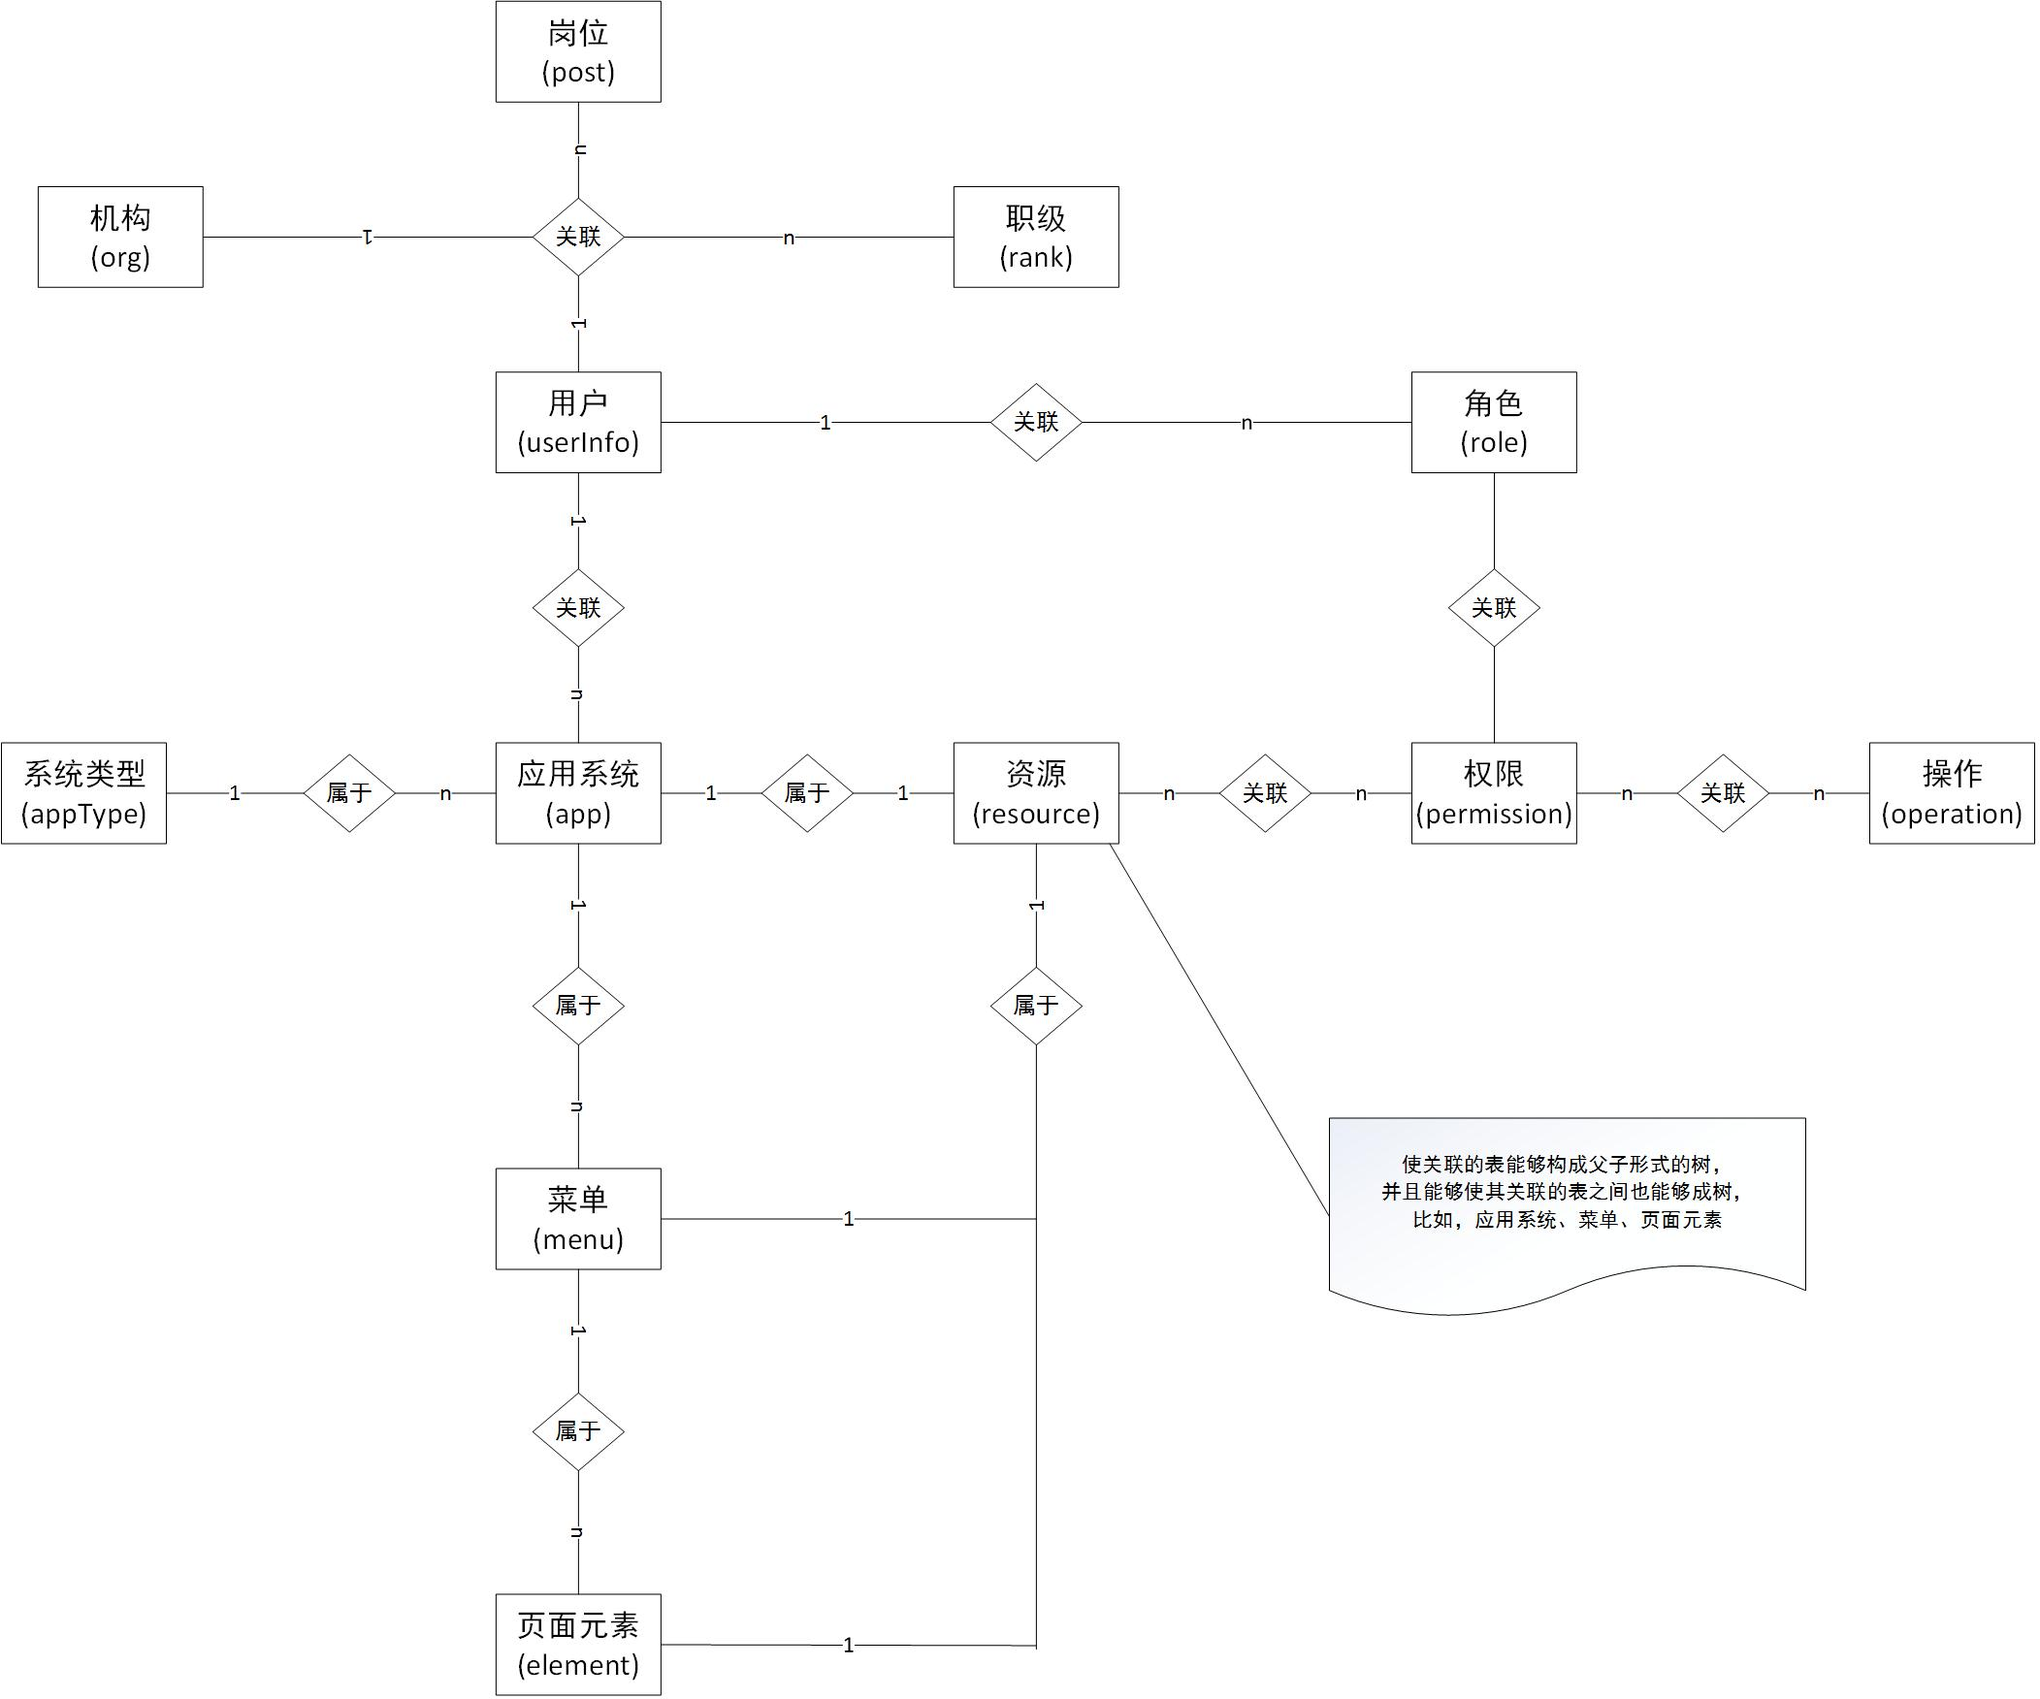
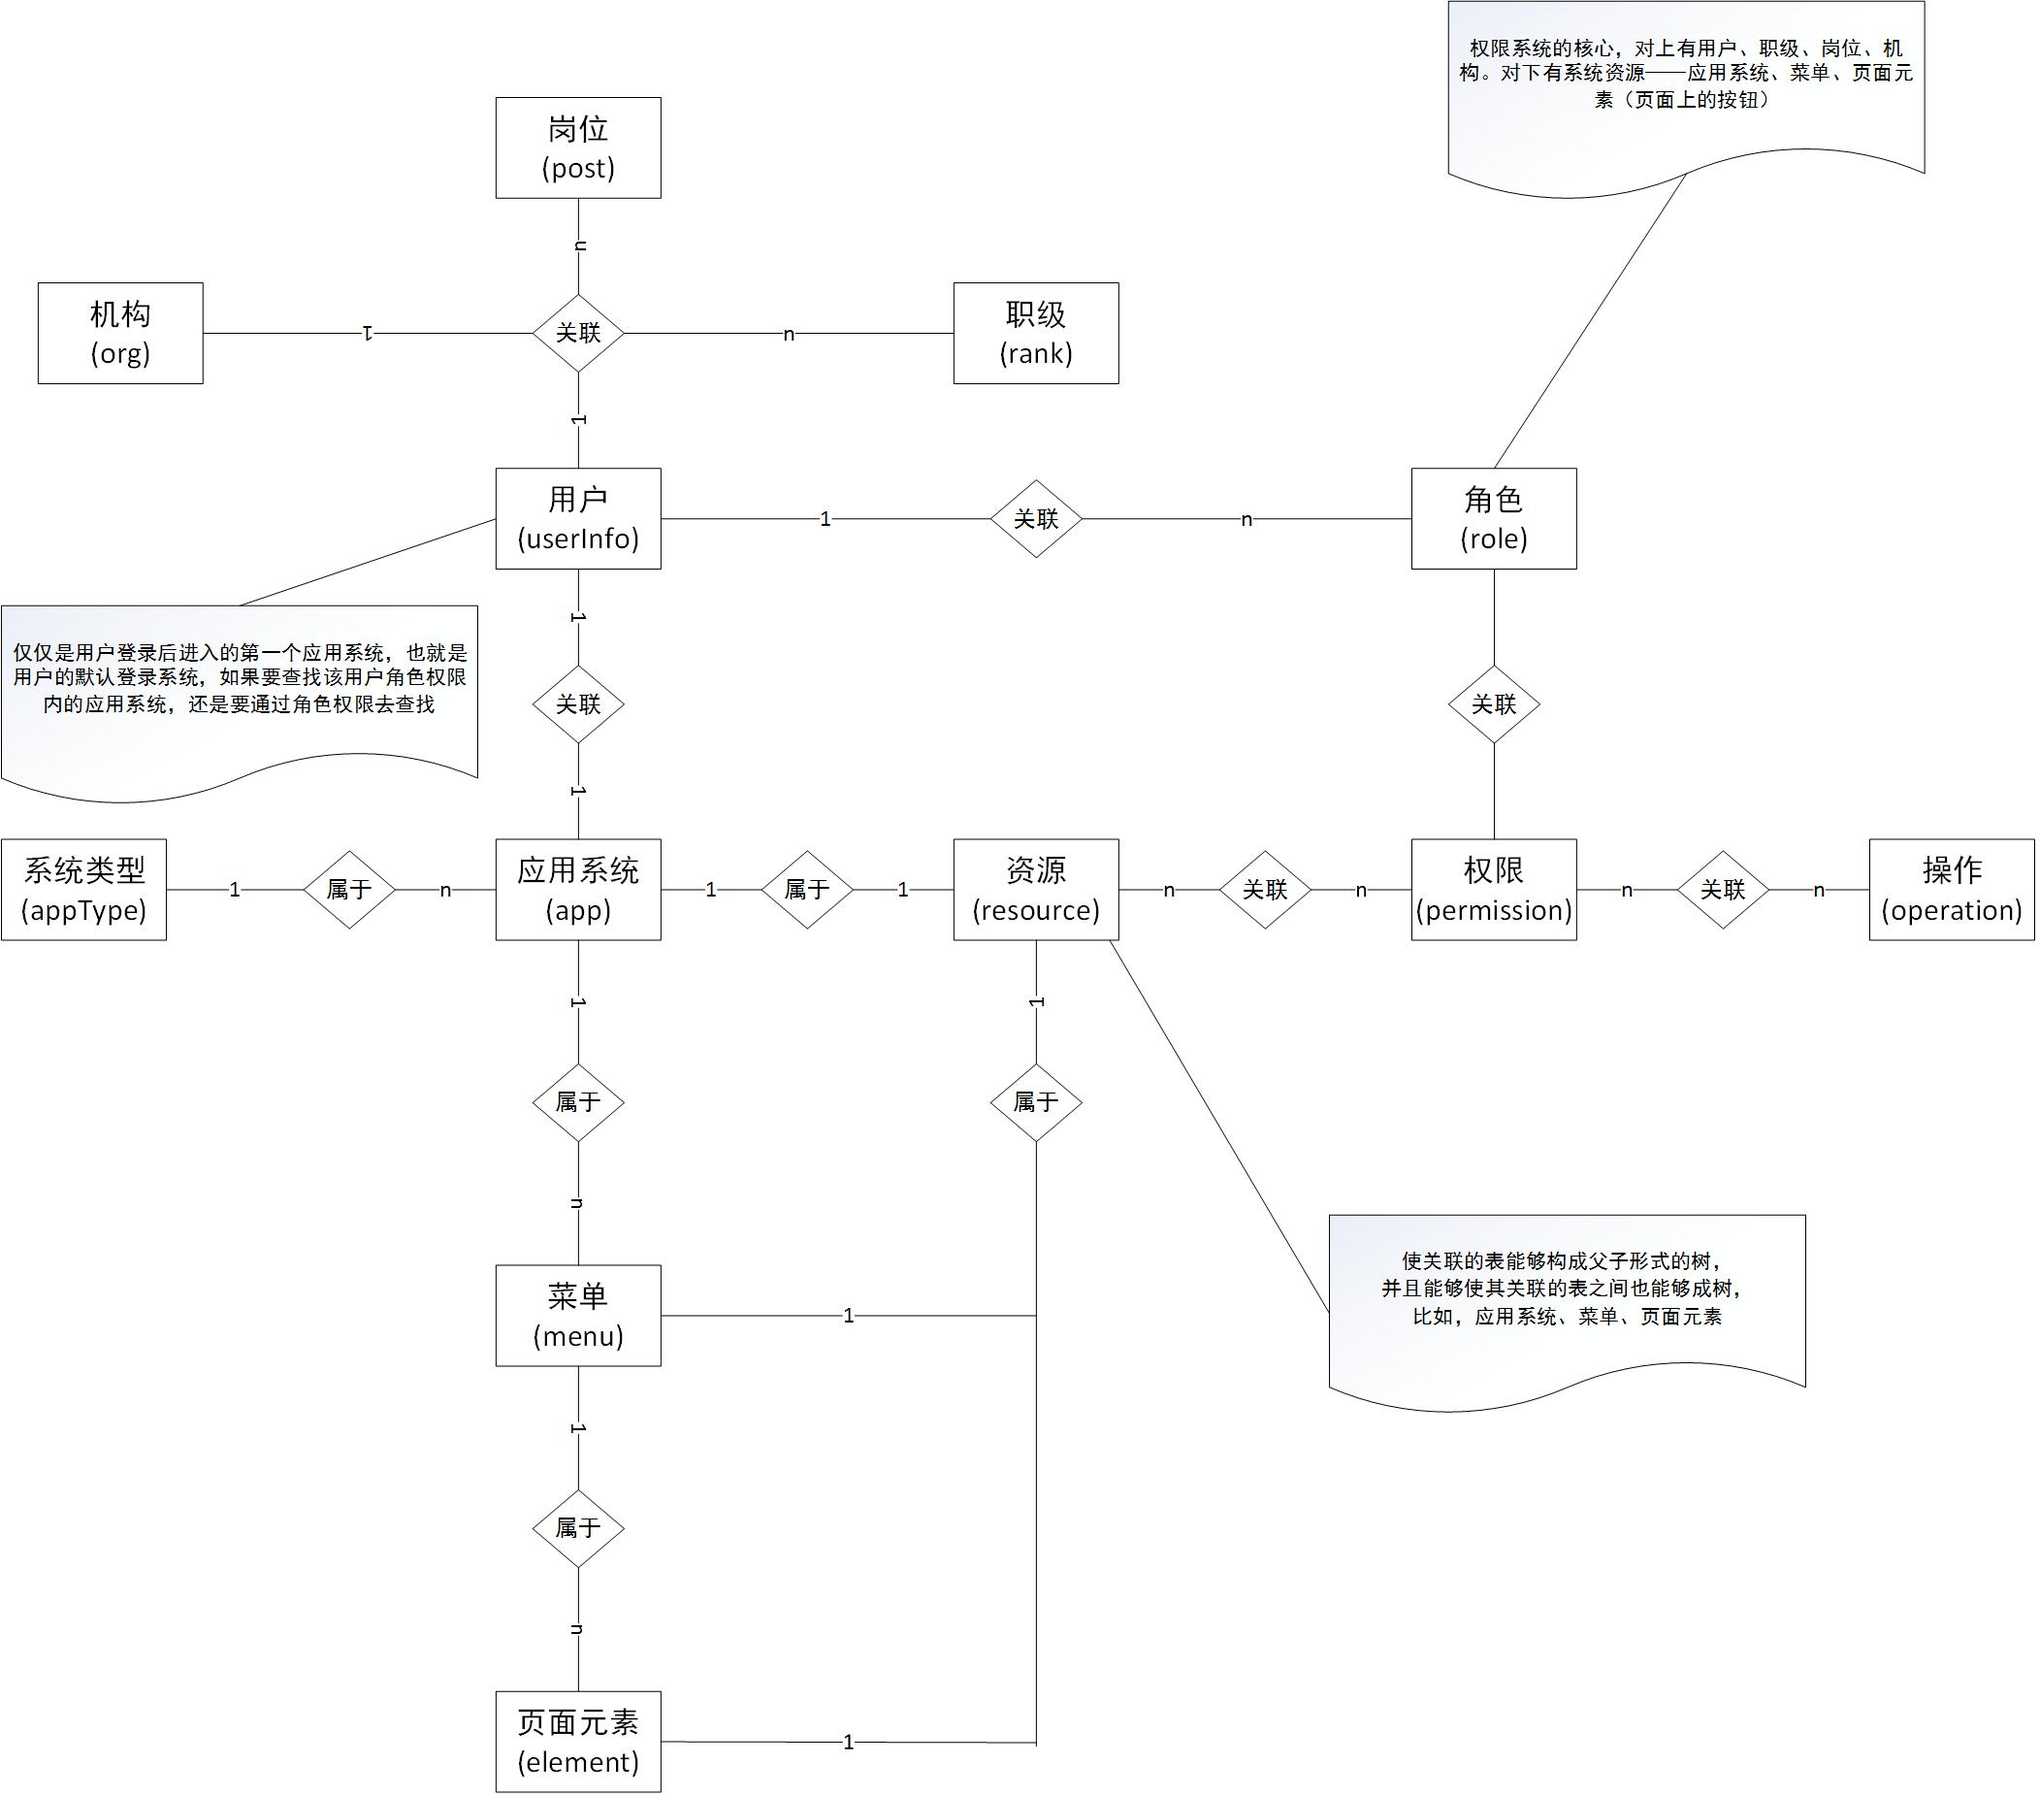
readme

diff --git a/README.md b/README.md
@@ -1,25 +1,65 @@
 # permission-web
 <h1>权限管理系统</h1>
 
+<h3>我认为的权限管理系统，就是用户登录后能够看到并能够使用那些子系统、菜单以及菜单上的功能按钮。</h3></br>
+
+<h3>所以我将应用系统、菜单、页面元素分别做成功能模块进行维护。</h3></br>
+
+<h3>在进行用户管理时、将用户设置好机构、岗位、职级以及角色，用以实际工作中区分用户类型。</h3></br>
+
+<h3>而用户的角色是该权限管理系统的核心，在角色管理模块进行权限分配控制，也就是给这个角色分配能够使用的应用系统、菜单以及页面元素。在用户登陆时根据该登陆者的角色所拥有的权限进行权限控制</h3></br>
+
+<h2>关系图如下所示：</h2>
+<img src="https://github.com/hejiawang/permission-web/raw/master/doc/表关系.jpg"/>
+
+</br>
+</br>
+
 <ul>
 
-	<li>机构管理</li>
-<img src="https://github.com/hejiawang/permission-web/raw/master/doc/image/1机构管理.png"/>
-
-![image](https://github.com/hejiawang/permission-web/raw/master/doc/image/1机构管理.png)
-
-![image](https://github.com/hejiawang/permission-web/raw/master/doc/image/1机构管理——新增.png)
-
-	<li>岗位管理</li>
+	<li><h2>机构管理</h2></li>
+		<img src="https://github.com/hejiawang/permission-web/raw/master/doc/image/1机构管理.png"/>
+		<img src="https://github.com/hejiawang/permission-web/raw/master/doc/image/1机构管理——新增.png"/>
+	</br>
+		
+	<li><h2>岗位管理</h2></li>
+		<img src="https://github.com/hejiawang/permission-web/raw/master/doc/image/2岗位管理.png"/>	
+	</br>
+		
+	<li><h2>职级管理</h2></li>
+		<img src="https://github.com/hejiawang/permission-web/raw/master/doc/image/3职级管理.png"/>
+	</br>
 	
-![image](https://github.com/hejiawang/permission-web/raw/master/doc/image/2岗位管理.png)
-
-![image](https://github.com/hejiawang/LiGongCloud/raw/master/ligongcloudImage/ligongcloud-login.png)
-
-![image](https://github.com/hejiawang/permission-web/raw/master/doc/image/1org.png)
-
-
+	<li><h2>角色管理</h2></li>
+		在这个权限管理系统之中，角色管理是核心，在登陆时根据该登陆者的角色所拥有的权限进行权限控制
+		<img src="https://github.com/hejiawang/permission-web/raw/master/doc/image/4角色管理.png"/>
+		<img src="https://github.com/hejiawang/permission-web/raw/master/doc/image/4角色管理——权限维护.png"/>
+	</br>
+	
+	<li><h2>系统类型</h2></li>
+		<img src="https://github.com/hejiawang/permission-web/raw/master/doc/image/5系统类型.png"/>
+	</br>
+	
+	<li><h2>应用系统</h2></li>
+		<img src="https://github.com/hejiawang/permission-web/raw/master/doc/image/6应用系统.png"/>
+	</br>
+	
+	<li><h2>菜单管理</h2></li>
+		<img src="https://github.com/hejiawang/permission-web/raw/master/doc/image/7菜单管理.png"/>	
+		<img src="https://github.com/hejiawang/permission-web/raw/master/doc/image/7菜单管理——新增.png"/>	
+	</br>
+	
+	<li><h2>页面元素</h2></li>
+		<img src="https://github.com/hejiawang/permission-web/raw/master/doc/image/8页面元素.png"/>
+		<img src="https://github.com/hejiawang/permission-web/raw/master/doc/image/8页面元素——新增.png"/>
+	</br>
+	
+	<li><h2>用户管理</h2></li>
+		<img src="https://github.com/hejiawang/permission-web/raw/master/doc/image/9用户管理.png"/>
+		<img src="https://github.com/hejiawang/permission-web/raw/master/doc/image/9用户管理——新增.png"/>
+	</br>
 
 </ul>
+
 
 
